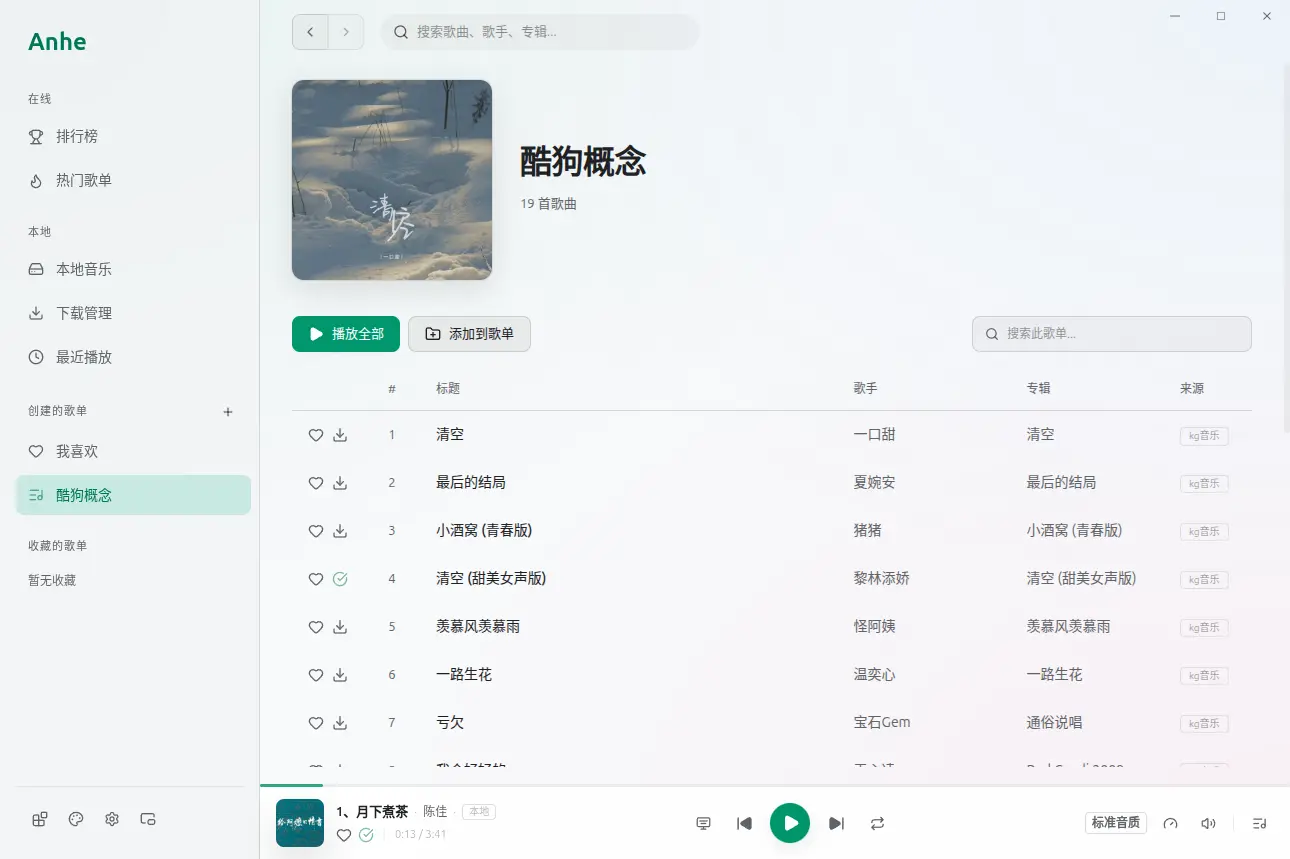
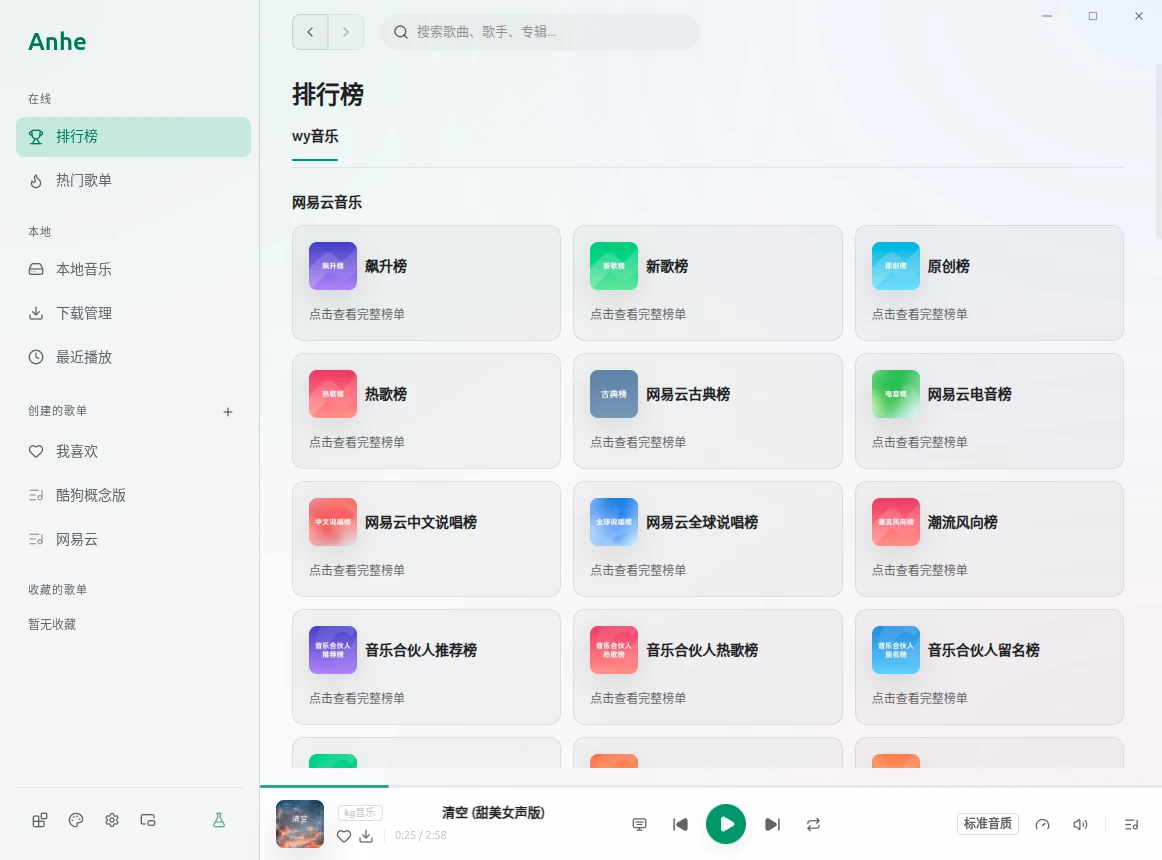
feat: 同步 AnhePlayer 页面至 Tauri v2 与 Windows 单平台版本
- 下载区改为 Windows 安装版与 MSI 安装包，更新兜底直链与版本号
- 重写功能卡片：Tauri v2 引擎、网易云私人推荐、备份迁移等
- 更新 Hero、插件主题、Footer 与站点描述，移除跨平台旧文案
- 替换最新界面截图，同步首页作品卡片信息

diff --git a/src/data/platforms.ts b/src/data/platforms.ts
@@ -1,7 +1,7 @@
-// GitHub 仓库与 Release 相关常量 + 各平台安装包元数据。
+// GitHub 仓库与 Release 相关常量 + Windows 安装包元数据。
 // 下载逻辑（Hero / Download 组件的客户端脚本）会读取这些匹配规则，
-// 从 GitHub Releases API 动态定位每个平台的最新安装包。
-// 新增/调整平台时，只改这里，无需动模板。
+// 从 GitHub Releases API 动态定位最新安装包。
+// 新增/调整安装包时，只改这里，无需动模板。
 
 export const GITHUB_OWNER = "raclen";
 export const GITHUB_REPO = "AnhePlayer";
@@ -9,89 +9,55 @@ export const GITHUB_REPO_URL = `https://github.com/${GITHUB_OWNER}/${GITHUB_REPO
 export const RELEASES_URL = `${GITHUB_REPO_URL}/releases`;
 export const RELEASES_LATEST_URL = `${RELEASES_URL}/latest`;
 export const LATEST_API = `https://api.github.com/repos/${GITHUB_OWNER}/${GITHUB_REPO}/releases/latest`;
-export const UPSTREAM_URL = "https://github.com/maotoumao/MusicFreeDesktop";
+export const TAURI_URL = "https://v2.tauri.app/";
 
 /** API 不可用（限流/断网）时的兜底版本与直链所基于的版本号。 */
-export const FALLBACK_VERSION = "1.0.10";
+export const FALLBACK_VERSION = "1.0.25";
 
-export type OsKey = "windows" | "macos" | "linux";
-export type IconKey = "windows" | "apple" | "linux";
+export type IconKey = "windows";
 
 export interface PlatformAsset {
   /** 唯一 id，也用作 DOM data-key */
   id: string;
-  os: OsKey;
   /** 展示名 */
   label: string;
   /** 类型/适用说明 */
   note: string;
-  /** 是否为该系统的推荐首选 */
+  /** 是否为推荐首选 */
   recommended?: boolean;
   /** 在 Release assets 文件名中匹配的子串 */
   match: string;
+  /** 兜底直链使用的完整文件名（版本号之前的 AnhePlayer_ 前缀之后部分） */
+  file: string;
 }
 
 export interface OsGroup {
-  os: OsKey;
   label: string;
   icon: IconKey;
 }
 
-export const OS_GROUPS: OsGroup[] = [
-  { os: "windows", label: "Windows", icon: "windows" },
-  { os: "macos", label: "macOS", icon: "apple" },
-  { os: "linux", label: "Linux", icon: "linux" },
-];
+// 当前版本仅提供 Windows 10 / 11 安装包（NSIS .exe 与 MSI）。
+export const OS_GROUP: OsGroup = { label: "Windows 10 / 11", icon: "windows" };
 
 export const PLATFORMS: PlatformAsset[] = [
   {
     id: "win-setup",
-    os: "windows",
     label: "安装版",
-    note: "推荐 · .exe 安装包",
+    note: "推荐 · .exe 一键安装",
     recommended: true,
-    match: "win32-x64-setup.exe",
+    match: "x64-setup.exe",
+    file: "x64-setup.exe",
   },
   {
-    id: "win-portable",
-    os: "windows",
-    label: "便携版",
-    note: "免安装 · .zip 解压即用",
-    match: "win32-x64-portable.zip",
-  },
-  {
-    id: "mac-arm",
-    os: "macos",
-    label: "Apple 芯片",
-    note: "M1/M2/M3/M4 · .dmg",
-    recommended: true,
-    match: "darwin-arm64.dmg",
-  },
-  {
-    id: "mac-intel",
-    os: "macos",
-    label: "Intel 芯片",
-    note: "Intel 处理器 · .dmg",
-    match: "darwin-x64.dmg",
-  },
-  {
-    id: "linux-deb",
-    os: "linux",
-    label: "DEB 包",
-    note: "Debian / Ubuntu · .deb",
-    recommended: true,
-    match: "linux-amd64.deb",
-  },
-  {
-    id: "linux-rpm",
-    os: "linux",
-    label: "RPM 包",
-    note: "Fedora / RHEL · .rpm",
-    match: "linux-amd64.rpm",
+    id: "win-msi",
+    label: "MSI 安装包",
+    note: "适合批量部署 · .msi",
+    match: ".msi",
+    file: "x64_en-US.msi",
   },
 ];
 
-/** 构造某平台在指定版本下的兜底直链（API 失败时使用）。 */
+/** 构造某安装包在指定版本下的兜底直链（API 失败时使用）。 */
 export function fallbackUrl(p: PlatformAsset, version = FALLBACK_VERSION): string {
-  return `${GITHUB_REPO_URL}/releases/download/v${version}/AnhePlayer-${version}-${p.match}`;
+  return `${GITHUB_REPO_URL}/releases/download/v${version}/AnhePlayer_${version}_${p.file}`;
 }

diff --git a/src/data/features.ts b/src/data/features.ts
@@ -1,4 +1,4 @@
-// 核心功能卡片数据（取自仓库 README 的功能模块，精选 8 项）。
+// 核心功能卡片数据（取自仓库 README 的功能模块与近期更新，精选 8 项）。
 // icon 为图标 key，对应 Features.astro 中的 SVG 映射。
 
 export interface Feature {
@@ -9,43 +9,43 @@ export interface Feature {
 
 export const FEATURES: Feature[] = [
   {
-    icon: "desktop",
-    title: "跨平台桌面端",
-    desc: "Windows、macOS、Linux 全覆盖，安装版与便携版任你选择。",
+    icon: "engine",
+    title: "Tauri v2 轻量引擎",
+    desc: "Rust 原生内核配合 Web Worker 插件沙箱，秒级冷启动，内存与 CPU 占用大幅降低。",
   },
   {
     icon: "puzzle",
-    title: "洛雪插件扩展",
-    desc: "安装洛雪 .js 插件或订阅链接，自由扩展在线音源与解析能力。",
+    title: "洛雪插件音源",
+    desc: "安装洛雪 .js 插件或远程订阅，自由扩展在线音源、多音质切换与音源重定向。",
   },
   {
-    icon: "lyrics",
-    title: "智能歌词",
-    desc: "自动联网匹配、内嵌同步歌词、翻译歌词与桌面歌词一应俱全。",
+    icon: "radar",
+    title: "网易云个性化推荐",
+    desc: "登录网易云账号，解锁私人雷达、每日推荐与私人漫游，推荐越听越懂你。",
   },
   {
     icon: "folder",
     title: "本地曲库管理",
-    desc: "扫描本地文件夹，按单曲、歌手、专辑、文件夹分类整理。",
+    desc: "扫描本地文件夹，按单曲、歌手、专辑、文件夹分类整理，本地歌曲同样可写入封面与歌词。",
   },
   {
-    icon: "search",
-    title: "在线浏览搜索",
-    desc: "经插件浏览歌曲、歌手、专辑、歌单与各类热门排行榜。",
+    icon: "queue",
+    title: "播放与队列",
+    desc: "播放队列、下一首播放、顺序/随机/单曲循环、倍速播放与音频输出设备选择。",
   },
   {
     icon: "palette",
     title: "主题随心换",
-    desc: "内置浅色与纯黑主题，支持本地及远程主题包深度定制外观。",
+    desc: "内置浅色与纯黑主题，主题市场提供多套策展主题，也可导入 .mftheme 主题包。",
   },
   {
     icon: "download",
     title: "下载管理",
-    desc: "自定义下载目录、默认音质、并发数量与文件命名格式。",
+    desc: "自定义下载目录、默认音质、并发数量与文件命名格式，下载完成自动写入封面与歌词。",
   },
   {
-    icon: "shield",
-    title: "无广告 · 重隐私",
-    desc: "没有广告打扰，应用数据默认留在本机，绝不上传个人信息。",
+    icon: "backup",
+    title: "备份与迁移",
+    desc: "支持本地文件备份、WebDAV 云备份恢复与旧版数据导入，换机也不丢歌单。",
   },
 ];
